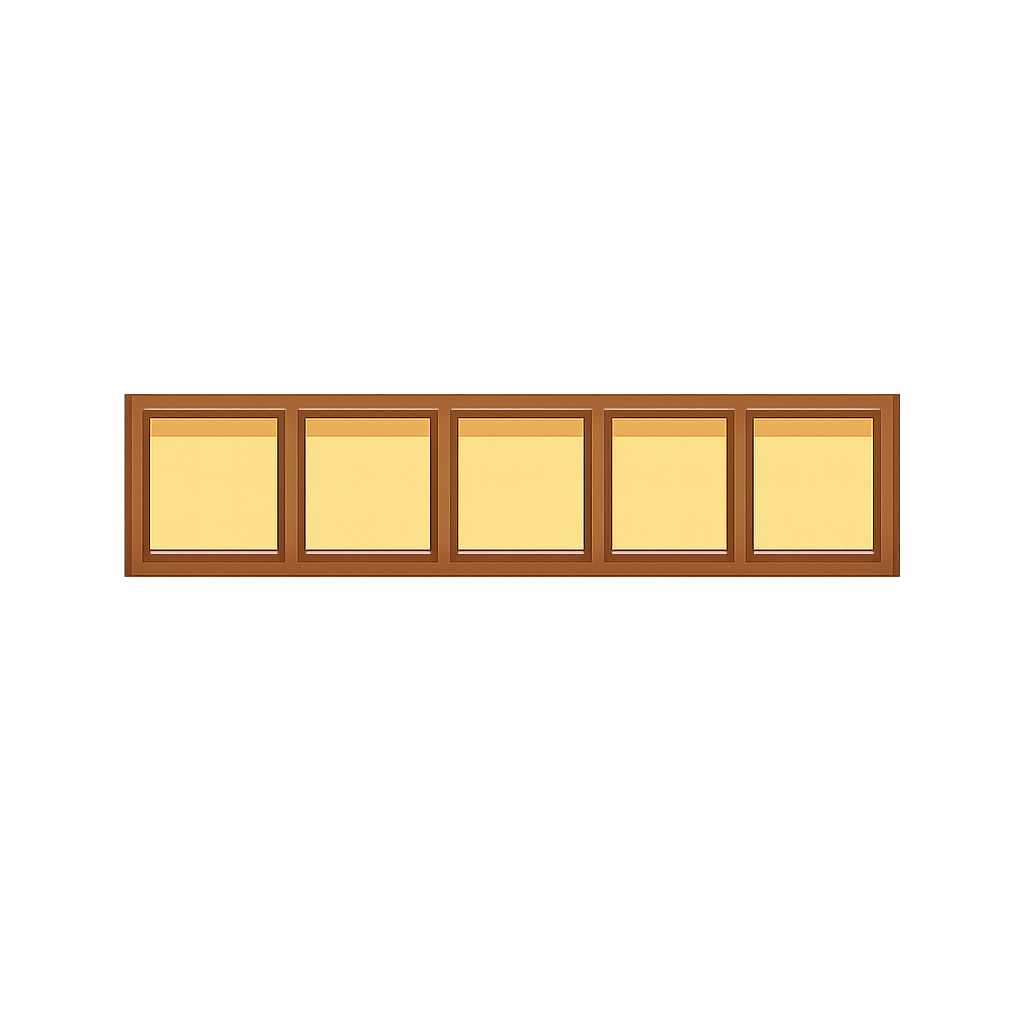
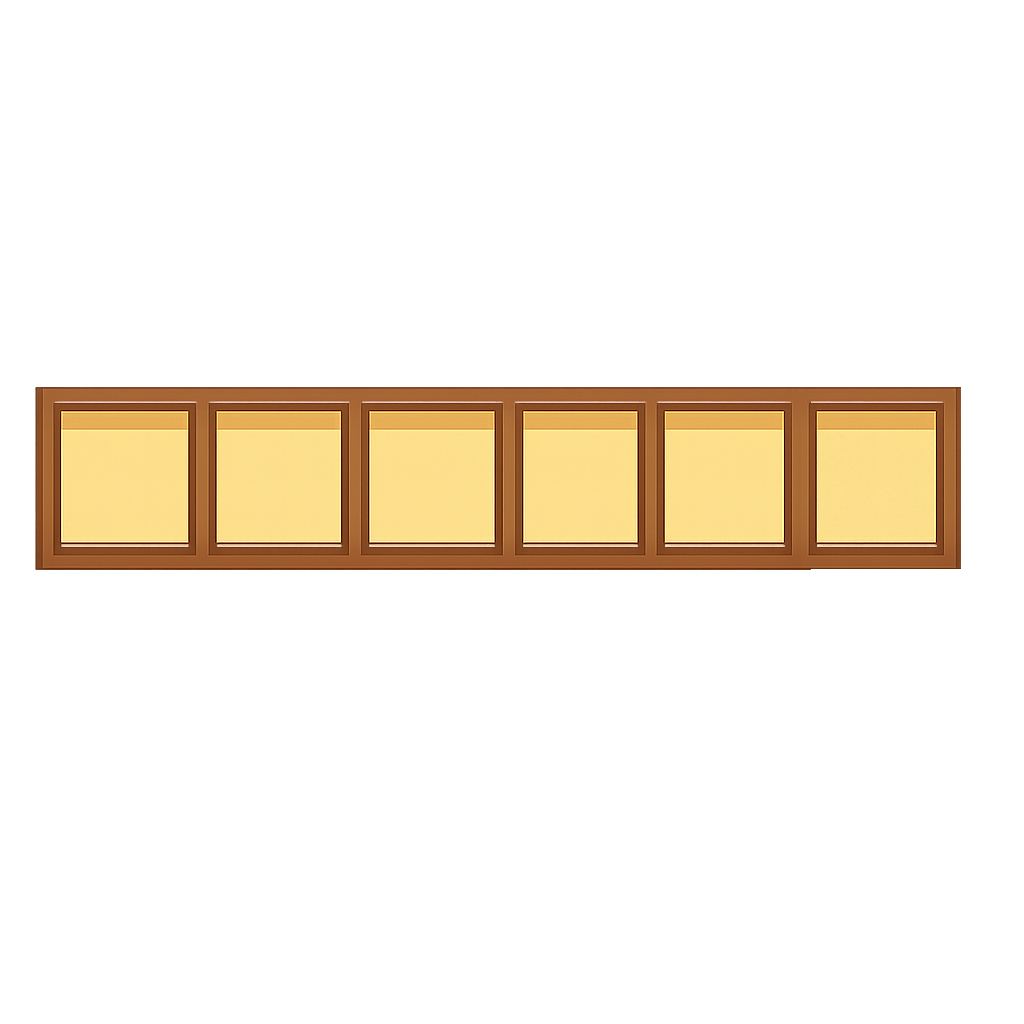
modification inventaire avec utilisation de l'image. Toggle de l'inventaire en appuyant sur I. Ajout d'une flèche pour visualiser l'angle de tir dans l'interface de capture.

Changed region(s): [[0.0312, 0.375, 0.9375, 0.5625]]

diff --git a/interface_capture.py b/interface_capture.py
@@ -12,10 +12,13 @@ POWER_MAX = 20
 SPEED_FACTOR = 5  # Vitesse d'affichage de la trajectoire
 # inventaire des cibles capturées
 inventory = []
+INVENTORY_PANEL_HEIGHT = 150
 INVENTORY_SLOTS = 6
-SLOT_SIZE = 50
+SLOT_SIZE = 20
 SLOT_MARGIN = 10
-
+panel_img = None
+panel_w = panel_h = 0
+panel_pos = (0, 0)
 def trajectoire(V0, theta_deg, x0=0, y0=0, g=GRAVITY):
     theta = math.radians(theta_deg)
     # tenir compte de la hauteur initiale h0 = (écran bas) – y0
@@ -109,20 +112,20 @@ class Cible:
         # placer la cible au sol, et ne bouger qu’horizontalement
         self.rect = self.img.get_rect(center=(center_pos[0], HEIGHT - TARGET_RADIUS))
         self.speed = 2
-        self.dx = random.choice([-1, 1])
-        self.dy = 0
+        self.dx = random.choice([-1, 0, 1])
+        self.dy = random.choice([-1, 0, 1])
         self.hit = False
         self.frame_count = 0
 
     def update(self):
         self.frame_count += 1
         if self.frame_count % 60 == 0:
-            # ne changer que la direction horizontale
-            self.dx = random.choice([-1, 1])
-            self.dy = 0
-        # déplacement horizontal seul et maintien au sol
+            # bouger horizontalement et verticalement
+            self.dx = random.choice([-1, 0, 1])
+            self.dy = random.choice([-1, 0, 1])
+        # déplacement horizontal et vertical
         self.rect.x += self.dx * self.speed
-        self.rect.centery = HEIGHT - TARGET_RADIUS
+        self.rect.y += self.dy * self.speed
         # rebondir entre la moitié droite et le bord droit
         if self.rect.left < WIDTH // 2:
             self.rect.left = WIDTH // 2
@@ -130,6 +133,12 @@ class Cible:
         elif self.rect.right > WIDTH:
             self.rect.right = WIDTH
             self.dx *= -1
+        if self.rect.top < HEIGHT // 2:
+            self.rect.top = HEIGHT // 2
+            self.dy *= -1
+        elif self.rect.bottom > HEIGHT:
+            self.rect.bottom = HEIGHT
+            self.dy *= -1
 
     def check_collision(self, ball_pos):
         dist = math.hypot(ball_pos[0] - self.rect.centerx, ball_pos[1] - self.rect.centery)
@@ -157,10 +166,27 @@ class Chargeur:
     def reset(self):
         self.charging = False
         self.power = 0
-
-
+def draw_inventory(surface):
+    global panel_img, panel_w, panel_h, panel_pos
+    if panel_img is None:
+        raw = pygame.image.load("images/inventaire.png").convert_alpha()
+        rw, rh = raw.get_size()
+        panel_w = WIDTH - 2 * SLOT_MARGIN
+        panel_h = int(rh * panel_w / rw)
+        panel_img = pygame.transform.scale(raw, (panel_w, panel_h))
+        panel_pos = (SLOT_MARGIN, HEIGHT - panel_h - SLOT_MARGIN)
+    surface.blit(panel_img, panel_pos)
+    border = 10
+    slot_w = (panel_w - border * (INVENTORY_SLOTS + 1)) / INVENTORY_SLOTS
+    icon_s = slot_w - 50
+    for i, slot in enumerate(inventory):
+        img = pygame.transform.scale(slot, (int(icon_s), int(icon_s)))
+        x = panel_pos[0] + i * slot_w + (slot_w - icon_s) // 2 + 20
+        y = panel_pos[1] + (panel_h - icon_s) // 2 -20
+        surface.blit(img, (x, y))
 def interface_capture(surface,player_image):
-    balle = Balle("images/pokeball.png", (100, HEIGHT - 400))
+    start_pos = (100, HEIGHT - 100)
+    balle = Balle("images/pokeball.png", start_pos)
     pokemons = {
         "carapuce": carapuce,
         "darkrai" : darkrai,
@@ -183,18 +209,9 @@ def interface_capture(surface,player_image):
     # préparer l’image du joueur passée en paramètre
     player_img = pygame.transform.scale(player_image, (60, 60))
     player_pos = (balle.start_pos[0] - 70, balle.start_pos[1])
-    # fonction interne pour dessiner l'inventaire
-    def draw_inventory(surface):
-        total_w = INVENTORY_SLOTS * SLOT_SIZE + (INVENTORY_SLOTS - 1) * SLOT_MARGIN
-        start_x = SLOT_MARGIN
-        y = HEIGHT - SLOT_SIZE - SLOT_MARGIN
-        for i in range(INVENTORY_SLOTS):
-            x = start_x + i * (SLOT_SIZE + SLOT_MARGIN)
-            pygame.draw.rect(surface, (200, 200, 200), (x, y, SLOT_SIZE, SLOT_SIZE), 2)
-            if i < len(inventory):
-                img = pygame.transform.scale(inventory[i], (SLOT_SIZE - 4, SLOT_SIZE - 4))
-                surface.blit(img, (x + 2, y + 2))
     clock = pygame.time.Clock()
+    inventory_visible = False
+    attempt_count = 0
     running = True
 
     while running:
@@ -202,7 +219,9 @@ def interface_capture(surface,player_image):
             if event.type == pygame.QUIT:
                 pygame.quit()
                 exit()
-
+            elif event.type == pygame.KEYDOWN:
+                if event.key == pygame.K_i:
+                    inventory_visible = not inventory_visible
             elif event.type == pygame.KEYDOWN:
                 if event.key == pygame.K_ESCAPE:
                     return  # quitter le mini-jeu
@@ -212,12 +231,26 @@ def interface_capture(surface,player_image):
                 chargeur.power = 0
 
             elif event.type == pygame.MOUSEBUTTONUP and chargeur.charging:
+                attempt_count += 1
                 balle.set_velocity(chargeur.power, pygame.mouse.get_pos())
                 chargeur.reset()
                 cible.hit = False
 
         surface.blit(fond, (0, 0))
-        draw_inventory(surface)
+        if inventory_visible:
+            draw_inventory(surface)
+        if not balle.fired and chargeur.charging:
+            start = balle.start_pos
+            end = pygame.mouse.get_pos()
+            pygame.draw.line(surface, (255, 0, 0), start, end, 2)
+            # calcul de la tête de flèche
+            theta = math.atan2(end[1] - start[1], end[0] - start[0])
+            arrow_len = 15
+            back = (end[0] - arrow_len * math.cos(theta), end[1] - arrow_len * math.sin(theta))
+            head_size = 8
+            left = (back[0] + head_size * math.sin(theta), back[1] - head_size * math.cos(theta))
+            right = (back[0] - head_size * math.sin(theta), back[1] + head_size * math.cos(theta))
+            pygame.draw.polygon(surface, (255, 0, 0), [end, left, right])
         chargeur.update()
         chargeur.draw(surface)
         cible.update()
@@ -234,8 +267,10 @@ def interface_capture(surface,player_image):
             # stocker l'image de la cible si place dispo
             if len(inventory) < INVENTORY_SLOTS:
                 inventory.append(pokemons[random_key])
-            balle.reset((100, HEIGHT - 100))
+            balle.reset(start_pos)
             return  # quitte le mini-jeu et revient à la scène précédente
+        if not balle.fired and attempt_count >= 5 and not cible.hit:
+            return
         pygame.display.flip()
         clock.tick(60)
 

diff --git a/main.py b/main.py
@@ -1,7 +1,6 @@
 #import
 import pygame
-from interface_capture import *
-from interface_capture import inventory, INVENTORY_SLOTS, SLOT_SIZE, SLOT_MARGIN, WIDTH, HEIGHT
+from interface_capture import interface_capture, draw_inventory, inventory, INVENTORY_SLOTS, WIDTH, HEIGHT
 from music import MusicManager
 from obstacles import *
 from load_image import *
@@ -18,7 +17,7 @@ pygame.init()
 # État initial
 game_start_ticks = pygame.time.get_ticks()  # démarre le chrono
 game_won = False
-show_inventory = False
+inventory_visible = False
 victory_time_ms = 0
 etat_jeu = "debut"
 musique_accueil_jouee = False
@@ -26,17 +25,6 @@ musique_accueil_jouee = False
 # Définition de la fenêtre
 screen = pygame.display.set_mode((1000, 600))
 pygame.display.set_caption("Jeu Team Rocket")
-# fonction pour dessiner l’inventaire sur toutes les scènes
-def draw_inventory(surface):
-    total_w = INVENTORY_SLOTS * SLOT_SIZE + (INVENTORY_SLOTS - 1) * SLOT_MARGIN
-    start_x = SLOT_MARGIN
-    y = HEIGHT - SLOT_SIZE - SLOT_MARGIN
-    for i in range(INVENTORY_SLOTS):
-        x = start_x + i * (SLOT_SIZE + SLOT_MARGIN)
-        pygame.draw.rect(surface, (200, 200, 200), (x, y, SLOT_SIZE, SLOT_SIZE), 2)
-        if i < len(inventory):
-            img = pygame.transform.scale(inventory[i], (SLOT_SIZE - 4, SLOT_SIZE - 4))
-            surface.blit(img, (x + 2, y + 2))
 music_manager = MusicManager()
 music_manager.set_etat("intro")
 
@@ -140,6 +128,9 @@ while running:
     for event in pygame.event.get():
         if event.type == pygame.QUIT:
             running = False
+        elif event.type == pygame.KEYDOWN and event.key == pygame.K_i:
+            if not game_won:
+                inventory_visible = not inventory_visible
         if event.type == pygame.MOUSEBUTTONDOWN:
             if current_scene == "debut" and button_rect.collidepoint(event.pos):
                 current_scene = "choix_perso"
@@ -151,33 +142,20 @@ while running:
                         player["capture_image"] = persos[perso]
                         scenes["jeu"]["joueur"] = player
                         current_scene = "etage"
-    # écran de victoire si l'inventaire est plein
+      # écran de victoire si l'inventaire est plein
+
     if len(inventory) >= INVENTORY_SLOTS:
         if not game_won:
             victory_time_ms = pygame.time.get_ticks() - game_start_ticks
             game_won = True
-        # calcul du temps gelé
         total_s = victory_time_ms // 1000
         minutes = total_s // 60
         seconds = total_s % 60
-        # fond victoire
         screen.fill((255, 255, 255))
-        # dessiner l’inventaire centré
-        total_w = INVENTORY_SLOTS * SLOT_SIZE + (INVENTORY_SLOTS - 1) * SLOT_MARGIN
-        start_x = (WIDTH - total_w) // 2
-        y_inv = (HEIGHT - SLOT_SIZE) // 2
-        for i in range(INVENTORY_SLOTS):
-            x = start_x + i * (SLOT_SIZE + SLOT_MARGIN)
-            # tracer chaque case
-            pygame.draw.rect(screen, (0, 0, 0), (x, y_inv, SLOT_SIZE, SLOT_SIZE), 2)
-            # si un item capturé correspond, l’afficher
-            if i < len(inventory):
-                img = pygame.transform.scale(inventory[i], (SLOT_SIZE - 4, SLOT_SIZE - 4))
-                screen.blit(img, (x + 2, y_inv + 2))
-        # afficher le temps gelé au-dessus
+        draw_inventory(screen)
         timer_text = f"Temps de jeu : {minutes}m{seconds}s"
         timer_surf = font_nom.render(timer_text, True, (0, 0, 0))
-        timer_rect = timer_surf.get_rect(center=(WIDTH // 2, y_inv - 30))
+        timer_rect = timer_surf.get_rect(center=(WIDTH // 2, HEIGHT // 2 - 50))
         screen.blit(timer_surf, timer_rect)
         pygame.display.flip()
         continue
@@ -289,7 +267,7 @@ while running:
         if player["image"]:
             resized_image = get_resized_player_image(player["image"], dimensions_perso)
             screen.blit(resized_image, (player["x"], player["y"]))
-    if show_inventory and len(inventory) < INVENTORY_SLOTS:
+    if (inventory_visible or game_won):
         draw_inventory(screen)
 
     pygame.display.flip()
